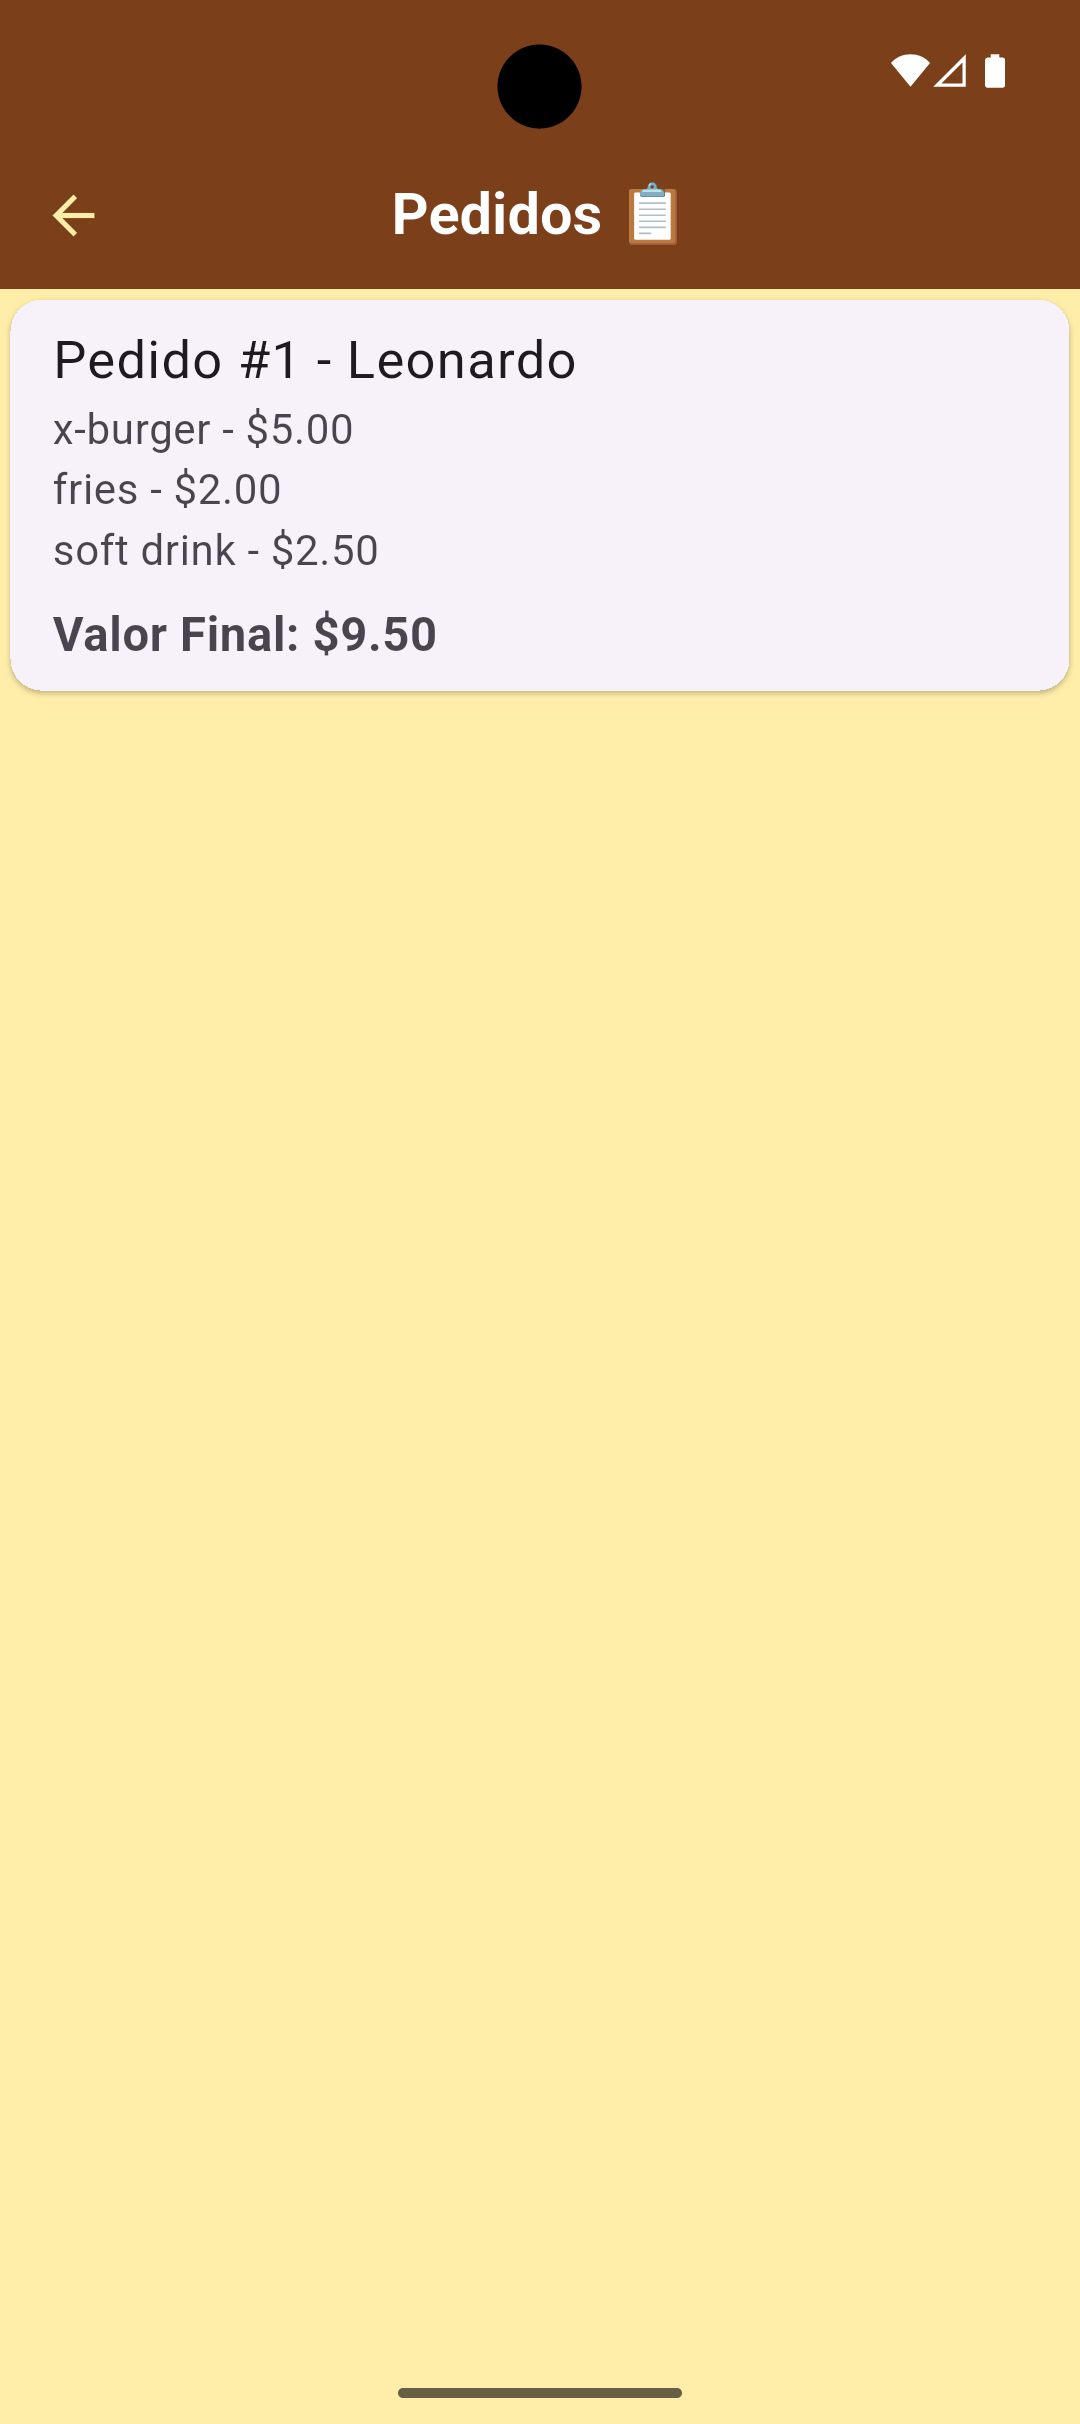
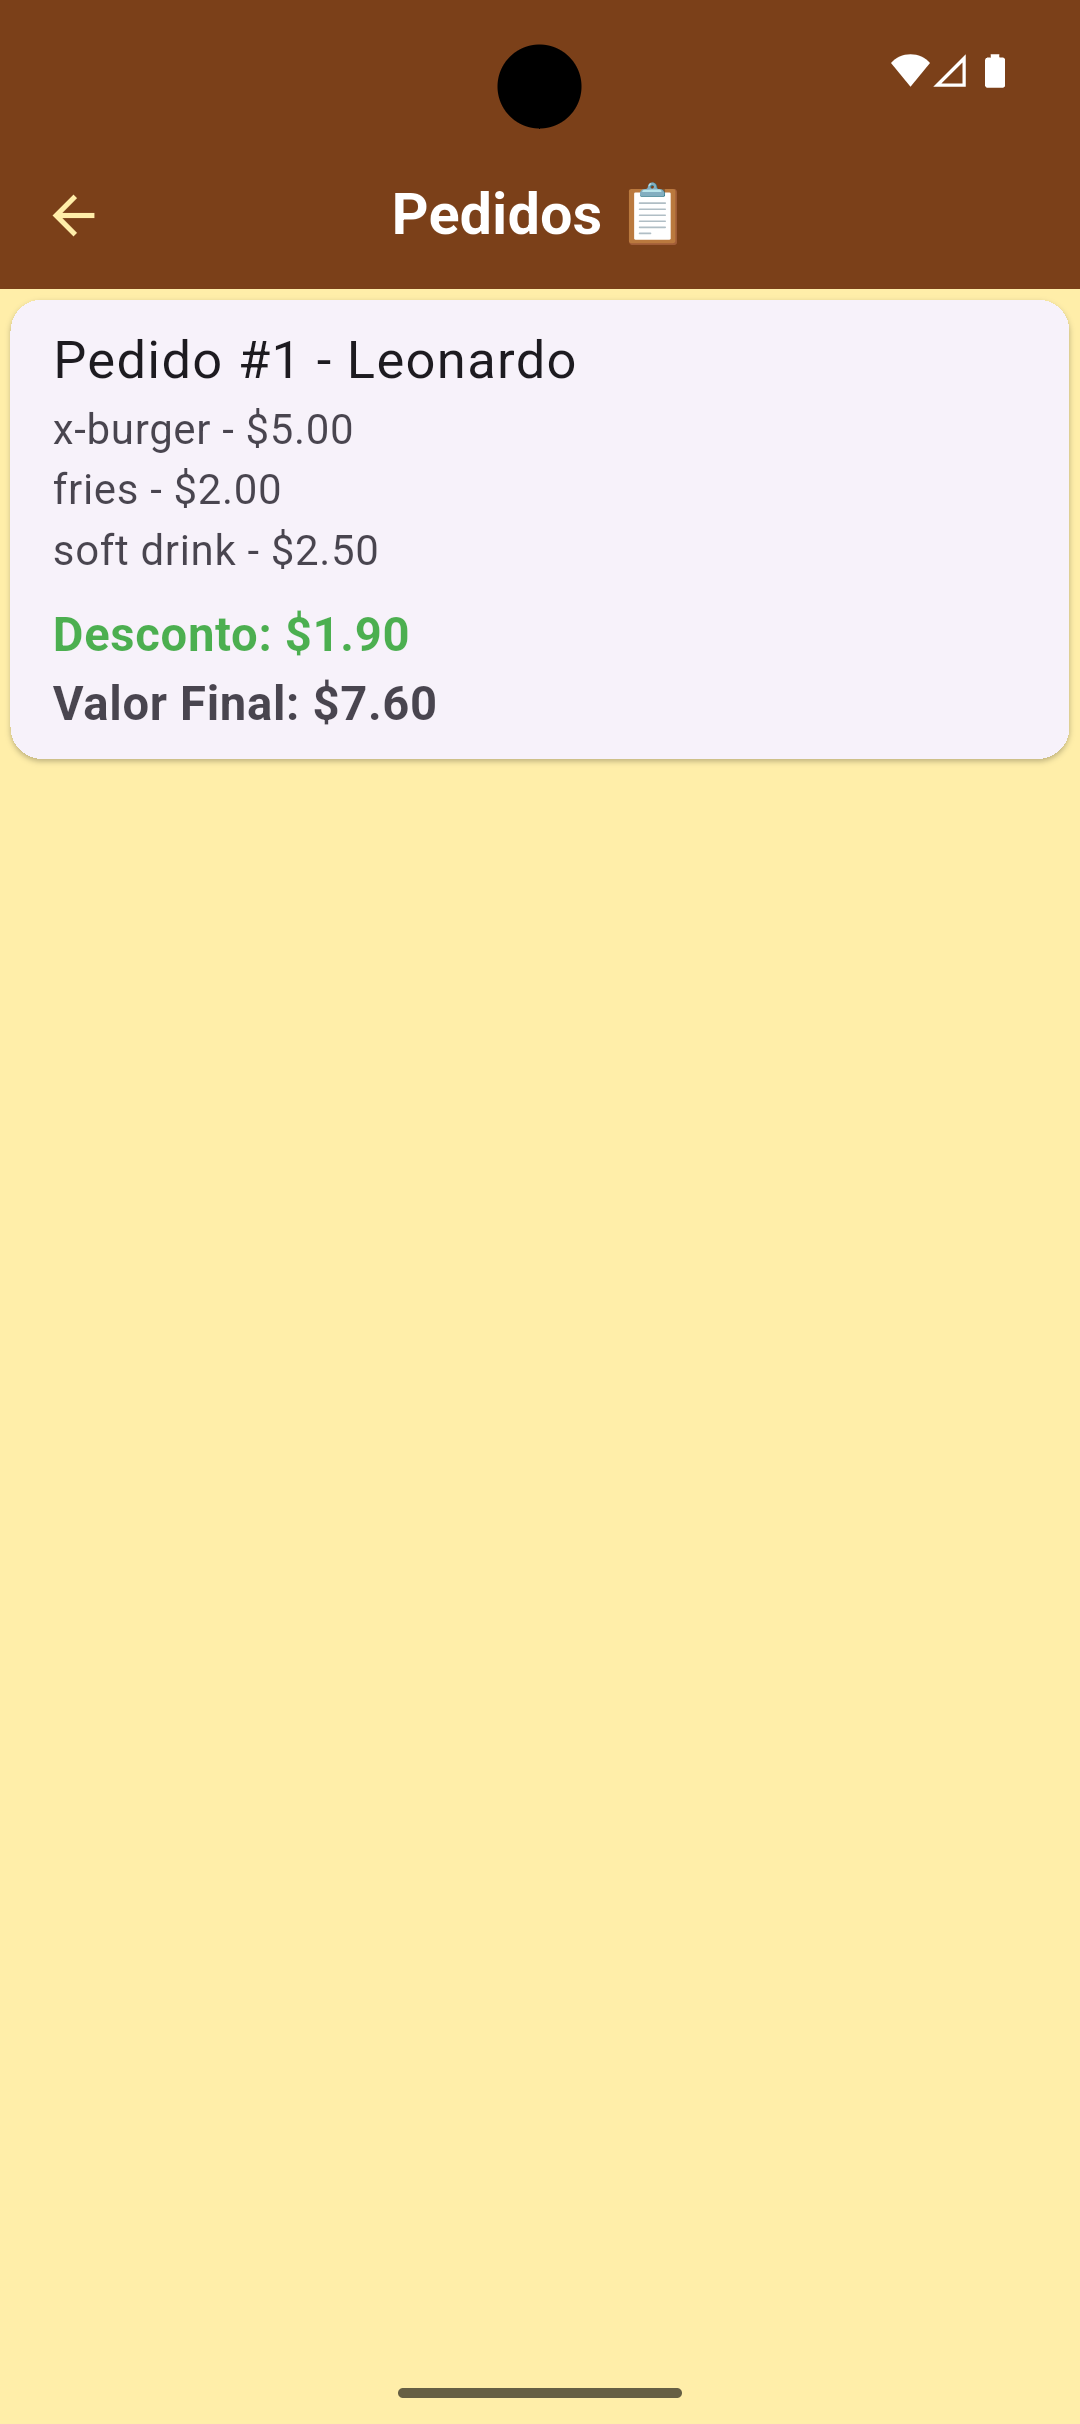
Salvando pedidos localmente usando Shared Preferences

Changed region(s): [[0.0, 0.2475, 1.0, 0.3403]]

diff --git a/lib/screens/home.dart b/lib/screens/home.dart
@@ -4,9 +4,10 @@ import 'package:flutter/material.dart';
 import 'package:bom_hamburguer/_utils/color_theme.dart';
 import 'dart:convert';
 import 'package:flutter/services.dart' show rootBundle;
+import 'package:shared_preferences/shared_preferences.dart';
 
 class Home extends StatefulWidget {
-  /* Recuperando nome de usuario enviado da tela inicial */
+  /* Recuperando nome de usuario recebido da tela de login*/
   final String name;
   const Home({super.key, required this.name});
   @override
@@ -14,7 +15,7 @@ class Home extends StatefulWidget {
 }
 
 class _HomeState extends State<Home> {
-  /* Carrega e converte os dados do JSON */
+  /* Carrega e converte os dados do JSON que contem os itens */
   Future<List<Map<String, dynamic>>> loadItems() async {
     final String manuItems = await rootBundle.loadString(
       'assets/menu_items.json',
@@ -106,7 +107,41 @@ class _HomeState extends State<Home> {
   }
 
   /* Inicializa lista de pedidos */
-  List<List<Map<String, dynamic>>> orders = [];
+  List<Map<String, dynamic>> orders = [];
+
+  /* Função para salvar pedidos localmente */
+  Future<void> saveOrders() async {
+    final prefs = await SharedPreferences.getInstance();
+    final ordersJson = jsonEncode(orders);
+    await prefs.setString('savedOrders', ordersJson);
+  }
+
+  /* Função para carregar lista de pedidos salva localmente */
+  Future<void> loadOrders() async {
+    final prefs = await SharedPreferences.getInstance();
+    final savedData = prefs.getString('savedOrders');
+
+    if (savedData != null) {
+      final decoded = jsonDecode(savedData);
+      setState(() {
+        orders = List<Map<String, dynamic>>.from(
+          decoded.map(
+            (order) => {
+              'name': order['name'],
+              'items': List<Map<String, dynamic>>.from(order['items']),
+            },
+          ),
+        );
+      });
+    }
+  }
+
+  /* Carrega pedidos */
+  @override
+  void initState() {
+    super.initState();
+    loadOrders();
+  }
 
   @override
   Widget build(BuildContext context) {
@@ -269,9 +304,13 @@ class _HomeState extends State<Home> {
                   .then((paymentDone) {
                     if (paymentDone == true) {
                       setState(() {
-                        orders.add(List<Map<String, dynamic>>.from(cart));
+                        orders.add({
+                          'name': widget.name,
+                          'items': List<Map<String, dynamic>>.from(cart),
+                        });
                         cart.clear();
                       });
+                      saveOrders();
                       ScaffoldMessenger.of(context).showSnackBar(
                         SnackBar(
                           backgroundColor: Colors.green,

diff --git a/lib/screens/orders.dart b/lib/screens/orders.dart
@@ -2,7 +2,7 @@ import 'package:bom_hamburguer/_utils/color_theme.dart';
 import 'package:flutter/material.dart';
 
 class Orders extends StatelessWidget {
-  final List<List<Map<String, dynamic>>> orders;
+  final List<Map<String, dynamic>> orders;
   final String name;
 
   const Orders({super.key, required this.orders, required this.name});
@@ -58,21 +58,25 @@ class Orders extends StatelessWidget {
           : ListView.builder(
               itemCount: orders.length,
               itemBuilder: (context, index) {
-                final order = orders[index];
-                final total = calcValues(order);
-                final discount = calcDiscount(order);
+                final orderData = orders[index];
+                final orderName = orderData['name'];
+                final orderItems = List<Map<String, dynamic>>.from(
+                  orderData['items'],
+                );
+                final total = calcValues(orderItems);
+                final discount = calcDiscount(orderItems);
                 final finalTotal = total - discount;
 
                 return Card(
                   child: ListTile(
                     title: Text(
-                      "Pedido #${index + 1} - $name",
+                      "Pedido #${index + 1} - $orderName",
                       style: TextStyle(fontSize: 20),
                     ),
                     subtitle: Column(
                       crossAxisAlignment: CrossAxisAlignment.start,
                       children: [
-                        ...order.map((item) {
+                        ...orderItems.map((item) {
                           return Text(
                             "${item['name']} - \$${item['price'].toStringAsFixed(2)}",
                             style: TextStyle(fontSize: 16),

diff --git a/macos/Flutter/GeneratedPluginRegistrant.swift b/macos/Flutter/GeneratedPluginRegistrant.swift
@@ -5,6 +5,8 @@
 import FlutterMacOS
 import Foundation
 
+import shared_preferences_foundation
 
 func RegisterGeneratedPlugins(registry: FlutterPluginRegistry) {
+  SharedPreferencesPlugin.register(with: registry.registrar(forPlugin: "SharedPreferencesPlugin"))
 }

diff --git a/README.md b/README.md
@@ -65,3 +65,4 @@ You are responsible for developing a mobile application (Android/iOS). The busin
 - feito o envio da lista cart para a tela Cart
 - tela do carrinho com a função de calcular descontos e limpar carrinho após confirmar pedido
 - tela de pedidos, recebendo a lista do carrinho e o nome do cliente
+- salvando localmente com shared preferences o nome e o pedido
